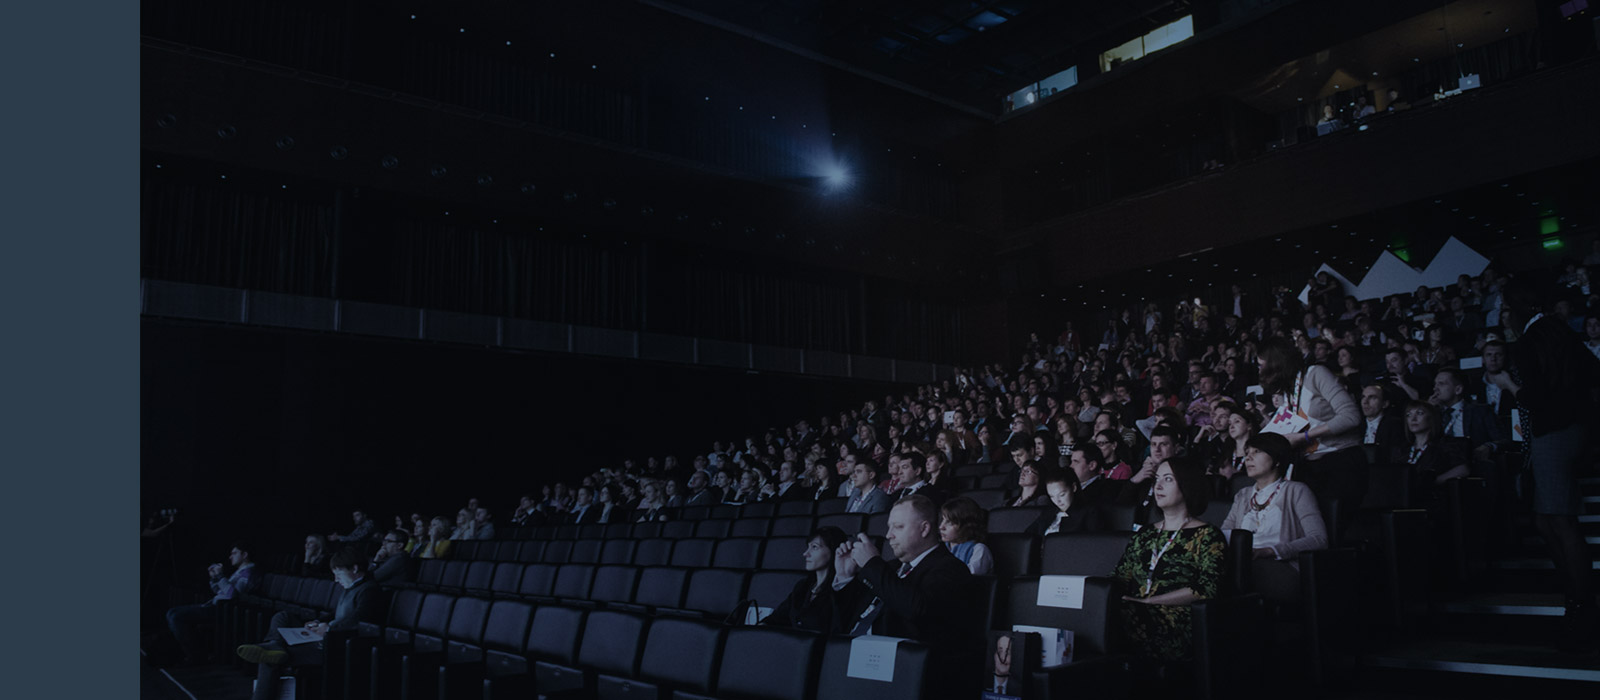
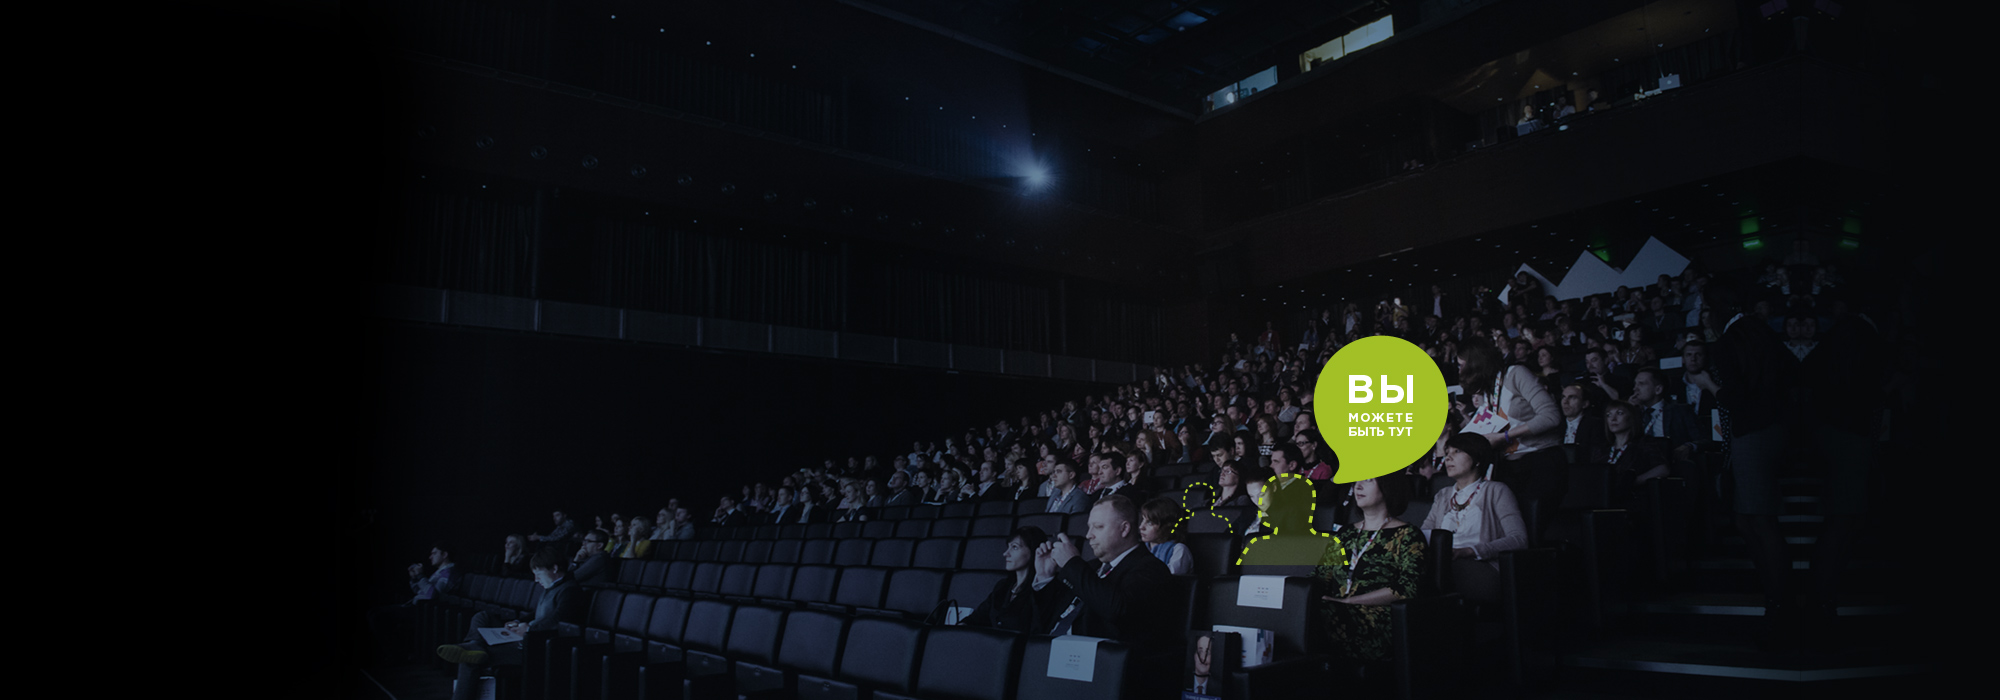
Ver. 1.21
Who bg changed. Vertical menu minor html and css fix.

diff --git a/letter.html b/letter.html
@@ -1,0 +1,65 @@
+<div style="background-color:#f2f5f7">
+	<table cellpadding="0" cellspacing="0" border="0" width="682" style="margin:0 30px;background-color:#fff;">
+	  <tr>
+	    <td style="padding: 20px 0 21px 30px;text-align: left;vertical-align: top;">
+	      <img src="http://test.renart.ru/layout/wth/images/logo-footer.png" />
+	    </td>
+	    <td style="padding: 29px 0 0 30px; vertical-align: top; width: 224px; letter-spacing: .1em;">
+	      <div style="font-family:Arial,sans-serif;font-size: 13px;line-height: 18px;color: #000;margin: 0 0 6px 0;text-transform:uppercase;">
+	        ФОРУМ О ТОМ, КАК<br/>
+					ВЫИГРЫВАТЬ<br/>
+					СЕРДЦА<br/>
+					СОТРУДНИКОВ
+	      </div>
+	    </td>
+	    <td style="padding: 55px 31px 22px 0;text-align: right;vertical-align: top;width: 211px;font-family:Arial,sans-serif;color:#000;font-size:20px;line-height:22px;">
+	      +7 (495) 225-73-21
+	      </td>
+	    </td>
+	  </tr>
+	  <tr>
+	    <td colspan="3">
+				<div style="margin:0 30px;height:1px;background:#d4dde4;border-bottom:1px solid #fff;"></div>
+	      <div style="font-family: Arial,sans-serif;font-size: 30px;line-height: 30px;color: #000;margin: 0px 30px 10px 30px;border-top: 1px solid #d4dde4;padding: 27px 0 0 0;text-align: center;">
+	        Благодарим за заявку
+	      </div>
+	      <div style="font-family: Arial,Helvetica,sans-serif;font-size: 16px;line-height: 22px;color: #464646;margin: 0 30px 29px 30px;text-align: center;">
+	        Ваша заявка поступила в обработку! Наш менеджер свяжется с вами<br />в ближайшее время.
+	      </div>
+	      <div style="border: 4px solid #e6ecf0;padding: 27px 34px;margin: 0 30px 53px 30px;">
+	      	<table cellpadding="0" cellspacing="0" border="0">
+            <tr>
+              <td style="font-family:Arial,Helvetica,sans-sans-serif;font-size:13px;line-height:22px;color:#97948f;vertical-align:top;padding:2px 50px 1px 0;white-space:nowrap;">Дата заявки:</td>
+              <td style="font-family:Arial,Helvetica,sans-sans-serif;color:#272625;font-size:15px;line-height:22px;vertical-align:top;padding:0 0 4px 0;">8 декабря 2013</td>
+            </tr> 
+            <tr>
+              <td style="font-family:Arial,Helvetica,sans-sans-serif;font-size:13px;line-height:22px;color:#97948f;vertical-align:top;padding:2px 50px 1px 0;white-space:nowrap;">Ваше имя:</td>
+              <td style="font-family:Arial,Helvetica,sans-sans-serif;color:#272625;font-size:15px;line-height:22px;vertical-align:top;padding:0 0 4px 0;">Кейдер Мария Игоревна</td>
+            </tr>  
+            <tr>
+              <td style="font-family:Arial,Helvetica,sans-sans-serif;font-size:13px;line-height:22px;color:#97948f;vertical-align:top;padding:2px 50px 1px 0;white-space:nowrap;">Ваш телефон:</td>
+              <td style="font-family:Arial,Helvetica,sans-sans-serif;color:#272625;font-size:15px;line-height:22px;vertical-align:top;padding:0 0 4px 0;">8 962 368 47 12</td>
+            </tr>  
+            <tr>
+              <td style="font-family:Arial,Helvetica,sans-sans-serif;font-size:13px;line-height:22px;color:#97948f;vertical-align:top;padding:2px 50px 1px 0;white-space:nowrap;">Ваш E-mail:</td>
+              <td style="font-family:Arial,Helvetica,sans-sans-serif;color:#272625;font-size:15px;line-height:22px;vertical-align:top;padding:0 0 4px 0;"><a href="mailto:m.keyder@gmail.com" style="color:#487697;">m.keyder@gmail.com</a></td>
+            </tr>  
+            <tr>
+              <td style="font-family:Arial,Helvetica,sans-sans-serif;font-size:13px;line-height:22px;color:#97948f;vertical-align:top;padding:2px 50px 1px 0;white-space:nowrap;">Компания:</td>
+              <td style="font-family:Arial,Helvetica,sans-sans-serif;color:#272625;font-size:15px;line-height:22px;vertical-align:top;padding:0 0 4px 0;">Ренессанс</td>
+            </tr>  
+            <tr>
+              <td style="font-family:Arial,Helvetica,sans-sans-serif;font-size:13px;line-height:22px;color:#97948f;vertical-align:top;padding:2px 50px 1px 0;white-space:nowrap;">Сообщение:</td>
+              <td style="font-family:Arial,Helvetica,sans-sans-serif;color:#272625;font-size:14px;line-height:22px;vertical-align:top;padding:0 0 4px 0;">Мы превратили этот сложный процесс в искусство – и получаем от этого удовольствие! Нам нравится, когда продуманы мельчайшие детали и учтены все факторы: от вкусовых предпочтений каждого гостя до температуры вина и корпоративной символики заказчика.</td>
+            </tr>  
+          </table>
+	      </div>
+	    </td>
+	  </tr>
+	  <tr>
+	    <td colspan="3" style="padding: 15px 0 12px 0;text-align:center; background:#3d6b8b;color:#fff;font-size:11px;font-family:Arial,sans-sans-serif;">
+	      &copy; 2013-2014, Winning the hearts. Все права защищены
+	    </td>
+	  </tr>
+	</table>
+</div>

diff --git a/template-style.css b/template-style.css
@@ -1344,8 +1344,7 @@ a:hover {
 
 .block-who {
   height:700px;
-	background:url(images/who-bg.jpg) center center no-repeat;
-	background-size:cover;
+	background:#000000 url(images/who-bg.jpg) center center no-repeat;
 	font-size:14px;
 	line-height:18px;
 	color:#fff;
@@ -1593,7 +1592,7 @@ a:hover {
 }
 
 .speakers-userpic img {
-  filter: url(filters.svg#grayscale); /* Firefox 3.5+ */
+  filter: url(css/filters.svg#grayscale); /* Firefox 3.5+ */
 	filter: gray; /* IE6-9 */
 	-webkit-filter: grayscale(1); /* Google Chrome, Safari 6+ & Opera 15+ */
 	width:173px;
@@ -3622,16 +3621,21 @@ ul.contacts-route li.metro {
 	display:block;
 }
 
-.fixed-menu-v .soclinks {
-  margin:14px -5px 21px 13px;
+.submenu-ttl span {
+  padding:0 25px;
+	display:block;
 }
 
+.fixed-menu-v .soclinks {
+  margin:14px -5px 21px 25px;
+}
+.submenu-ttl.in_soc{padding-left: 25px}
 .fixed-menu-v .soclinks a {
   display: block;
 	float: left;
 	width: 20px;
 	height: 20px;
-	margin: 0 14px 0 0;
+	margin: 0 10px 0 0;
 	background-position: 0 0;
 	background-repeat: no-repeat;
 }
@@ -4647,7 +4651,7 @@ label.error {
 .paginator .nav-btn {
   width:98px;
 }
-
+.paginator .p-btn.act,
 .paginator .p-btn:hover {
   color:#fff;
 	background:#f54e53;

diff --git a/materials-presentations.html b/materials-presentations.html
@@ -103,7 +103,7 @@
 				<li><a class="act" href="#">Презентации</a></li>
 			</ul>
 			<div class="hr"></div>
-			<div class="submenu-ttl">Мы<br />в&nbsp;соц. сетях</div>
+			<div class="submenu-ttl"><span>Мы<br />в&nbsp;соц. сетях</span></div>
 			<div class="soclinks clearfix">
 				<a href="#" class="link-fb"></a>
 				<a href="#" class="link-twitter"></a>

diff --git a/home.html b/home.html
@@ -103,7 +103,7 @@
 				<li><a href="#">Презентации</a></li>
 			</ul>
 			<div class="hr"></div>
-			<div class="submenu-ttl">Мы<br />в&nbsp;соц. сетях</div>
+			<div class="submenu-ttl"><span>Мы<br />в&nbsp;соц. сетях</span></div>
 			<div class="soclinks clearfix">
 				<a href="#" class="link-fb"></a>
 				<a href="#" class="link-twitter"></a>

diff --git a/materials-news-item.html b/materials-news-item.html
@@ -113,7 +113,7 @@
 				<li><a href="#">Презентации</a></li>
 			</ul>
 			<div class="hr"></div>
-			<div class="submenu-ttl">Мы<br />в&nbsp;соц. сетях</div>
+			<div class="submenu-ttl"><span>Мы<br />в&nbsp;соц. сетях</span></div>
 			<div class="soclinks clearfix">
 				<a href="#" class="link-fb"></a>
 				<a href="#" class="link-twitter"></a>

diff --git a/materials-news.html b/materials-news.html
@@ -103,7 +103,7 @@
 				<li><a href="#">Презентации</a></li>
 			</ul>
 			<div class="hr"></div>
-			<div class="submenu-ttl">Мы<br />в&nbsp;соц. сетях</div>
+			<div class="submenu-ttl"><span>Мы<br />в&nbsp;соц. сетях</span></div>
 			<div class="soclinks clearfix">
 				<a href="#" class="link-fb"></a>
 				<a href="#" class="link-twitter"></a>

diff --git a/materials-photo.html b/materials-photo.html
@@ -103,7 +103,7 @@
 				<li><a href="#">Презентации</a></li>
 			</ul>
 			<div class="hr"></div>
-			<div class="submenu-ttl">Мы<br />в&nbsp;соц. сетях</div>
+			<div class="submenu-ttl"><span>Мы<br />в&nbsp;соц. сетях</span></div>
 			<div class="soclinks clearfix">
 				<a href="#" class="link-fb"></a>
 				<a href="#" class="link-twitter"></a>

diff --git a/materials-speakers.html b/materials-speakers.html
@@ -103,7 +103,7 @@
 				<li><a href="#">Презентации</a></li>
 			</ul>
 			<div class="hr"></div>
-			<div class="submenu-ttl">Мы<br />в&nbsp;соц. сетях</div>
+			<div class="submenu-ttl"><span>Мы<br />в&nbsp;соц. сетях</span></div>
 			<div class="soclinks clearfix">
 				<a href="#" class="link-fb"></a>
 				<a href="#" class="link-twitter"></a>

diff --git a/materials-video.html b/materials-video.html
@@ -103,7 +103,7 @@
 				<li><a href="#">Презентации</a></li>
 			</ul>
 			<div class="hr"></div>
-			<div class="submenu-ttl">Мы<br />в&nbsp;соц. сетях</div>
+			<div class="submenu-ttl"><span>Мы<br />в&nbsp;соц. сетях</span></div>
 			<div class="soclinks clearfix">
 				<a href="#" class="link-fb"></a>
 				<a href="#" class="link-twitter"></a>

diff --git a/materials.html b/materials.html
@@ -103,7 +103,7 @@
 				<li><a href="#">Презентации</a></li>
 			</ul>
 			<div class="hr"></div>
-			<div class="submenu-ttl">Мы<br />в&nbsp;соц. сетях</div>
+			<div class="submenu-ttl"><span>Мы<br />в&nbsp;соц. сетях</span></div>
 			<div class="soclinks clearfix">
 				<a href="#" class="link-fb"></a>
 				<a href="#" class="link-twitter"></a>
